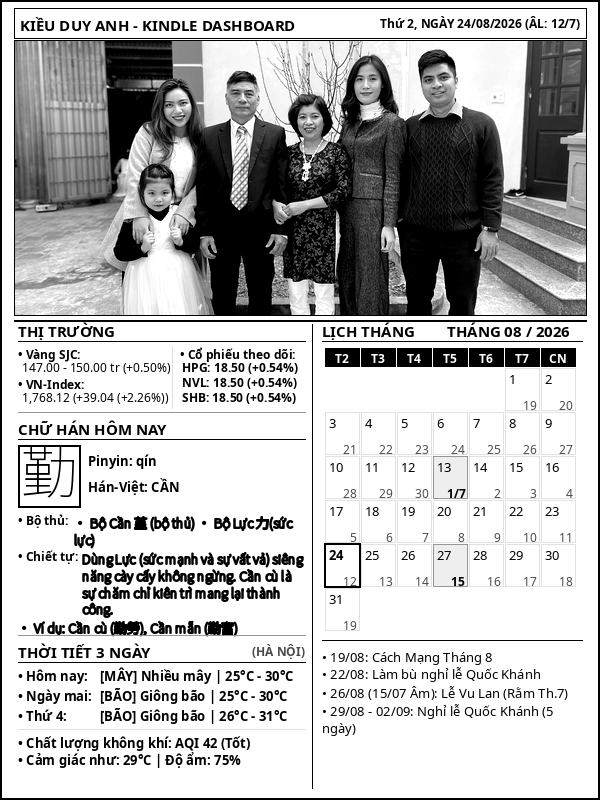
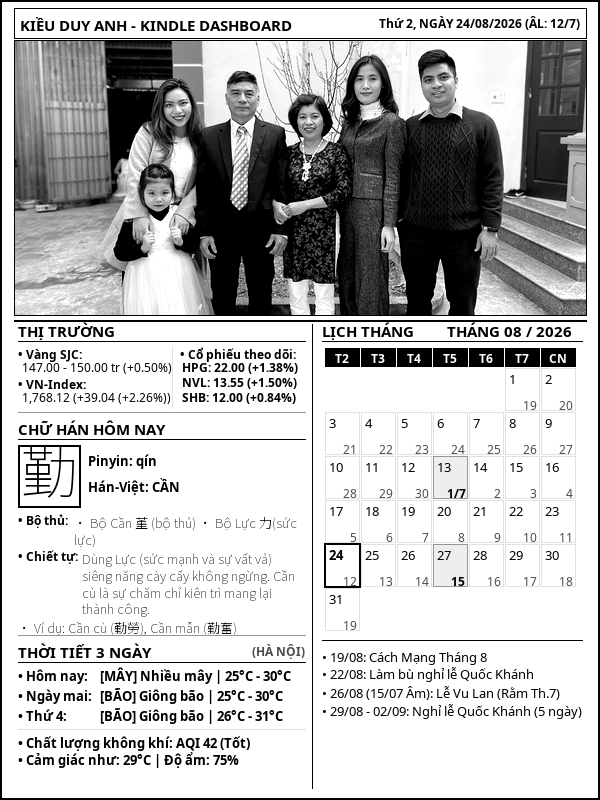
Remove stroke_width=1 from Vietnamese text rendering

diff --git a/render_dashboard.py b/render_dashboard.py
@@ -621,14 +621,14 @@ def render_dashboard():
     
     curr_y = 512
     draw.text((left_x, curr_y), "• Bộ thủ:", font=fonts["small_bold"], fill=COLOR_BLACK)
-    curr_y = draw_wrapped_text(draw, rad_str, fonts["hanzi_small"], left_x + 56, curr_y, left_w - 56, COLOR_BLACK, line_spacing=2, stroke_width=1, stroke_fill=COLOR_BLACK) + 3
+    curr_y = draw_wrapped_text(draw, rad_str, fonts["hanzi_small"], left_x + 56, curr_y, left_w - 56, COLOR_BLACK, line_spacing=2) + 3
 
     # Breakdown (Chiết tự) line
     draw.text((left_x, curr_y), "• Chiết tự:", font=fonts["small_bold"], fill=COLOR_BLACK)
-    curr_y = draw_wrapped_text(draw, word["breakdown"], fonts["hanzi_small"], left_x + 64, curr_y, left_w - 64, COLOR_BLACK, line_spacing=2, stroke_width=1, stroke_fill=COLOR_BLACK) + 3
+    curr_y = draw_wrapped_text(draw, word["breakdown"], fonts["hanzi_small"], left_x + 64, curr_y, left_w - 64, COLOR_BLACK, line_spacing=2) + 3
 
     # Examples (Ví dụ) line
-    draw.text((left_x, curr_y), f"• Ví dụ: {word.get('examples', '')}", font=fonts["hanzi_small"], fill=COLOR_BLACK, stroke_width=1, stroke_fill=COLOR_BLACK)
+    draw.text((left_x, curr_y), f"• Ví dụ: {word.get('examples', '')}", font=fonts["hanzi_small"], fill=COLOR_BLACK)
     curr_y += 18
 
     # Dynamic Section Divider Line below Ví dụ
